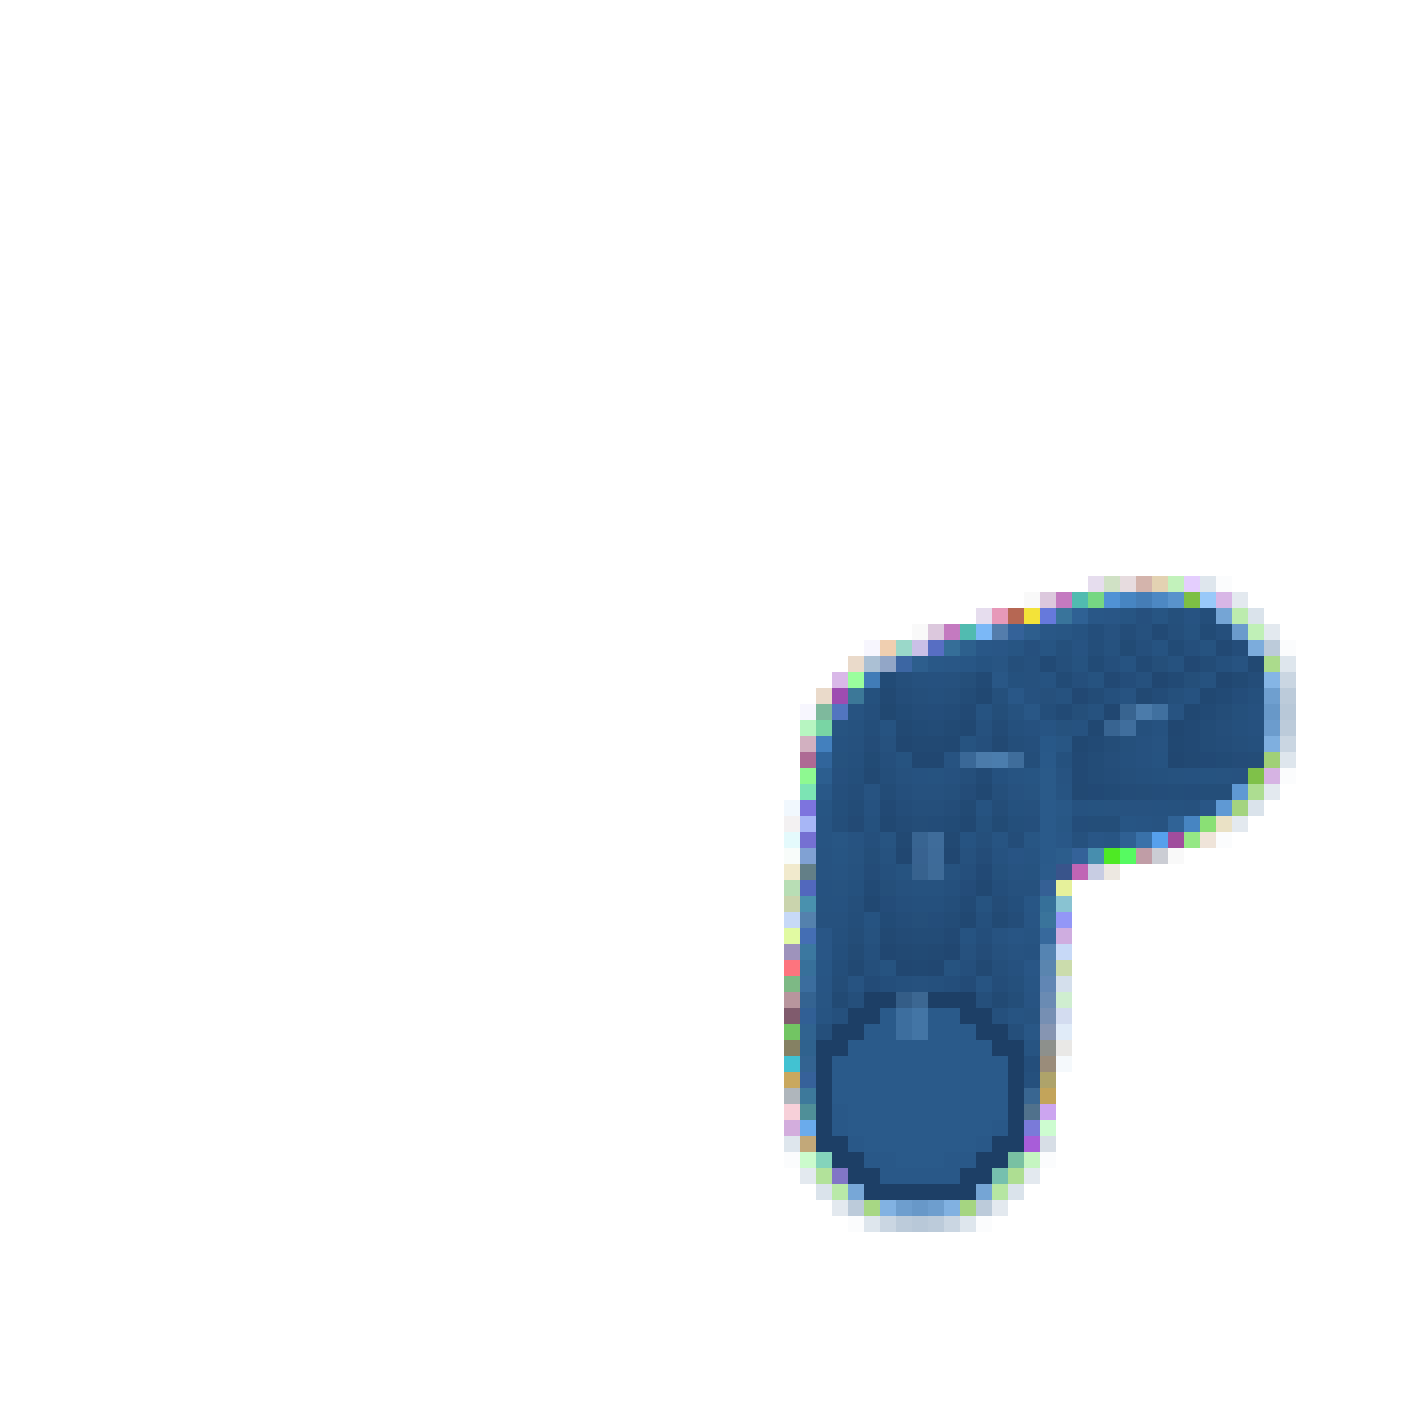
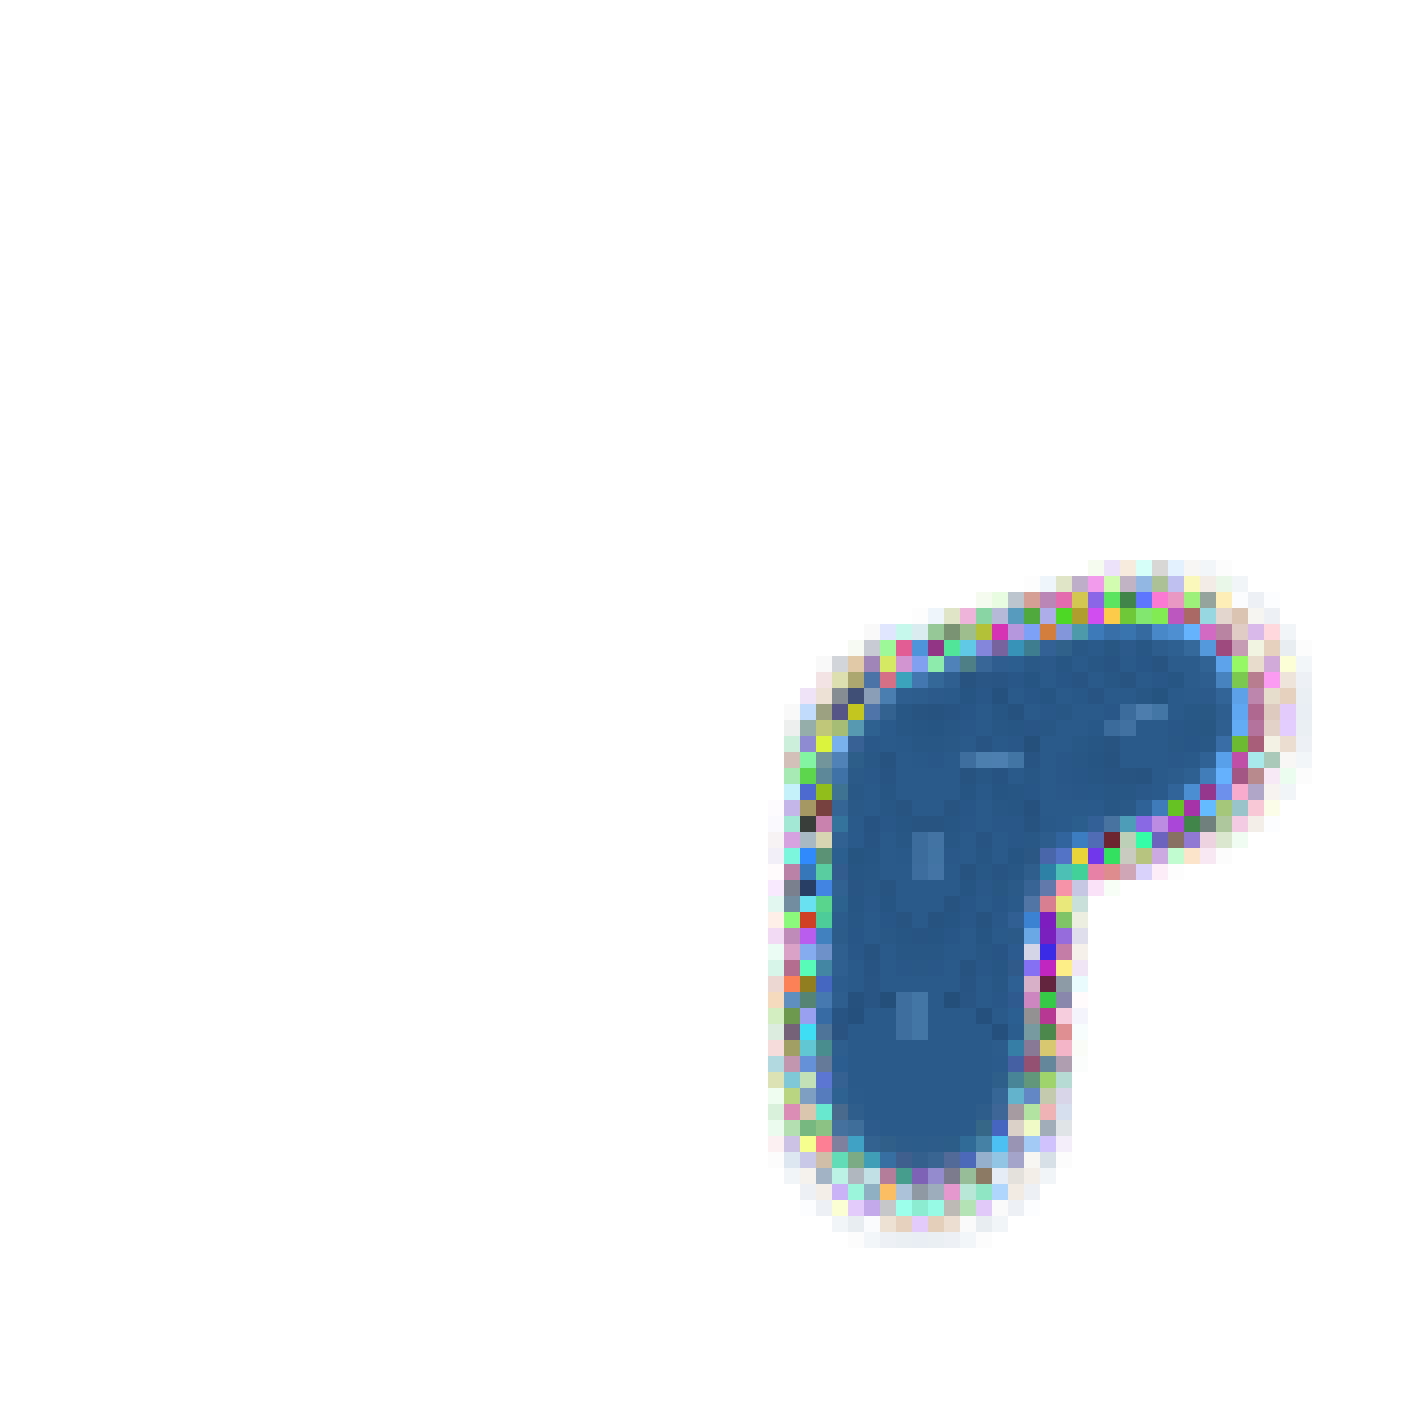
feat(map): soften river banks, narrow the wide band, keep bridges off mouths
Dogfood pass over the live instance (seed 42 open, screenshots at straight,
curve, bridge, mouth and both sizes):
- The wide river read as a beaded chain of hard-edged full hexes: the bake
  stamped a near-opaque core with a full-opacity dark rim one pixel short of
  the edge, which also cut each river cell off from its neighbour. The stamp
  now fades the core through a translucent mid-band into a thin translucent
  dark edge and a 3px soft spill, so the biome underneath tints the banks
  (the 'picks up the colour of the biome' idea) and adjacent cells join
  continuously.
- Wide tile radius 11 -> 9 so land shows along the channel like the small
  river, which the review found already read correctly.
- Bake bridges at least two cells clear of either mouth, so a bridge no
  longer sits where the river pours into its lake (seed 42's bridge moved
  from the mouth cell 5,15 to 5,14).

Verified: tsc clean, 790 engine+render+minimap tests green, lint:deps,
docs:check, build, validate-assets; visual baselines regenerated and all 10
scenes re-matched at 0.000%.

Changed region(s): [[0.5312, 0.375, 0.9375, 0.875], [0.6562, 0.6875, 0.6875, 0.7188]]

diff --git a/packages/engine/src/map/rivers.ts b/packages/engine/src/map/rivers.ts
@@ -372,8 +372,12 @@ function boundaryBonus(
  */
 function bakeBridges(riverTiles: RiverTile[], rng: () => number): void {
   if (riverTiles.length === 0) return;
+  // Keep at least two cells of plain water at each end so a bridge never
+  // sits where the river pours into its lake.
+  const first = 2;
+  const last = riverTiles.length - 3;
   const straight: number[] = [];
-  for (let i = 1; i < riverTiles.length - 1; i++) {
+  for (let i = first; i <= last; i++) {
     const prev = riverTiles[i - 1];
     const next = riverTiles[i + 1];
     if (prev.q === next.q || prev.r === next.r) straight.push(i);
@@ -394,7 +398,7 @@ function bakeBridges(riverTiles: RiverTile[], rng: () => number): void {
   if (placedCount < want) {
     const middle = riverTiles
       .map((_, i) => i)
-      .filter((i) => i >= 1 && i <= riverTiles.length - 2 && !riverTiles[i].bridge);
+      .filter((i) => i >= first && i <= last && !riverTiles[i].bridge);
     choose(middle);
   }
 }

diff --git a/docs/map.md b/docs/map.md
@@ -38,7 +38,7 @@ Rivers are **not a terrain value**: they are an overlay layer (`RiverTile[]` on 
 | Kind | Crossing | Notes |
 |------|----------|-------|
 | Small | Costs a full day (7 movement points — the whole round budget) | No bridge; the hero must end the turn on the far bank |
-| Wide | Impassable except at bridges | Bridges are baked at generation (~every 8 cells, at least one per river); a bridge crossing costs 1 |
+| Wide | Impassable except at bridges | Bridges are baked at generation (~every 8 cells, at least one per river, never within two cells of the mouth); a bridge crossing costs 1 |
 
 - Generated by `placeRivers` (`packages/engine/src/map/rivers.ts`) after every terrain pass, so v1–v4 grids are byte-identical for the same seed; rivers exist only on maps generated at map-gen **v5** (`CURRENT_MAP_GEN_VERSION`).
 - A river runs from one body of water to another — water **and swamp** cells both count as bodies.
